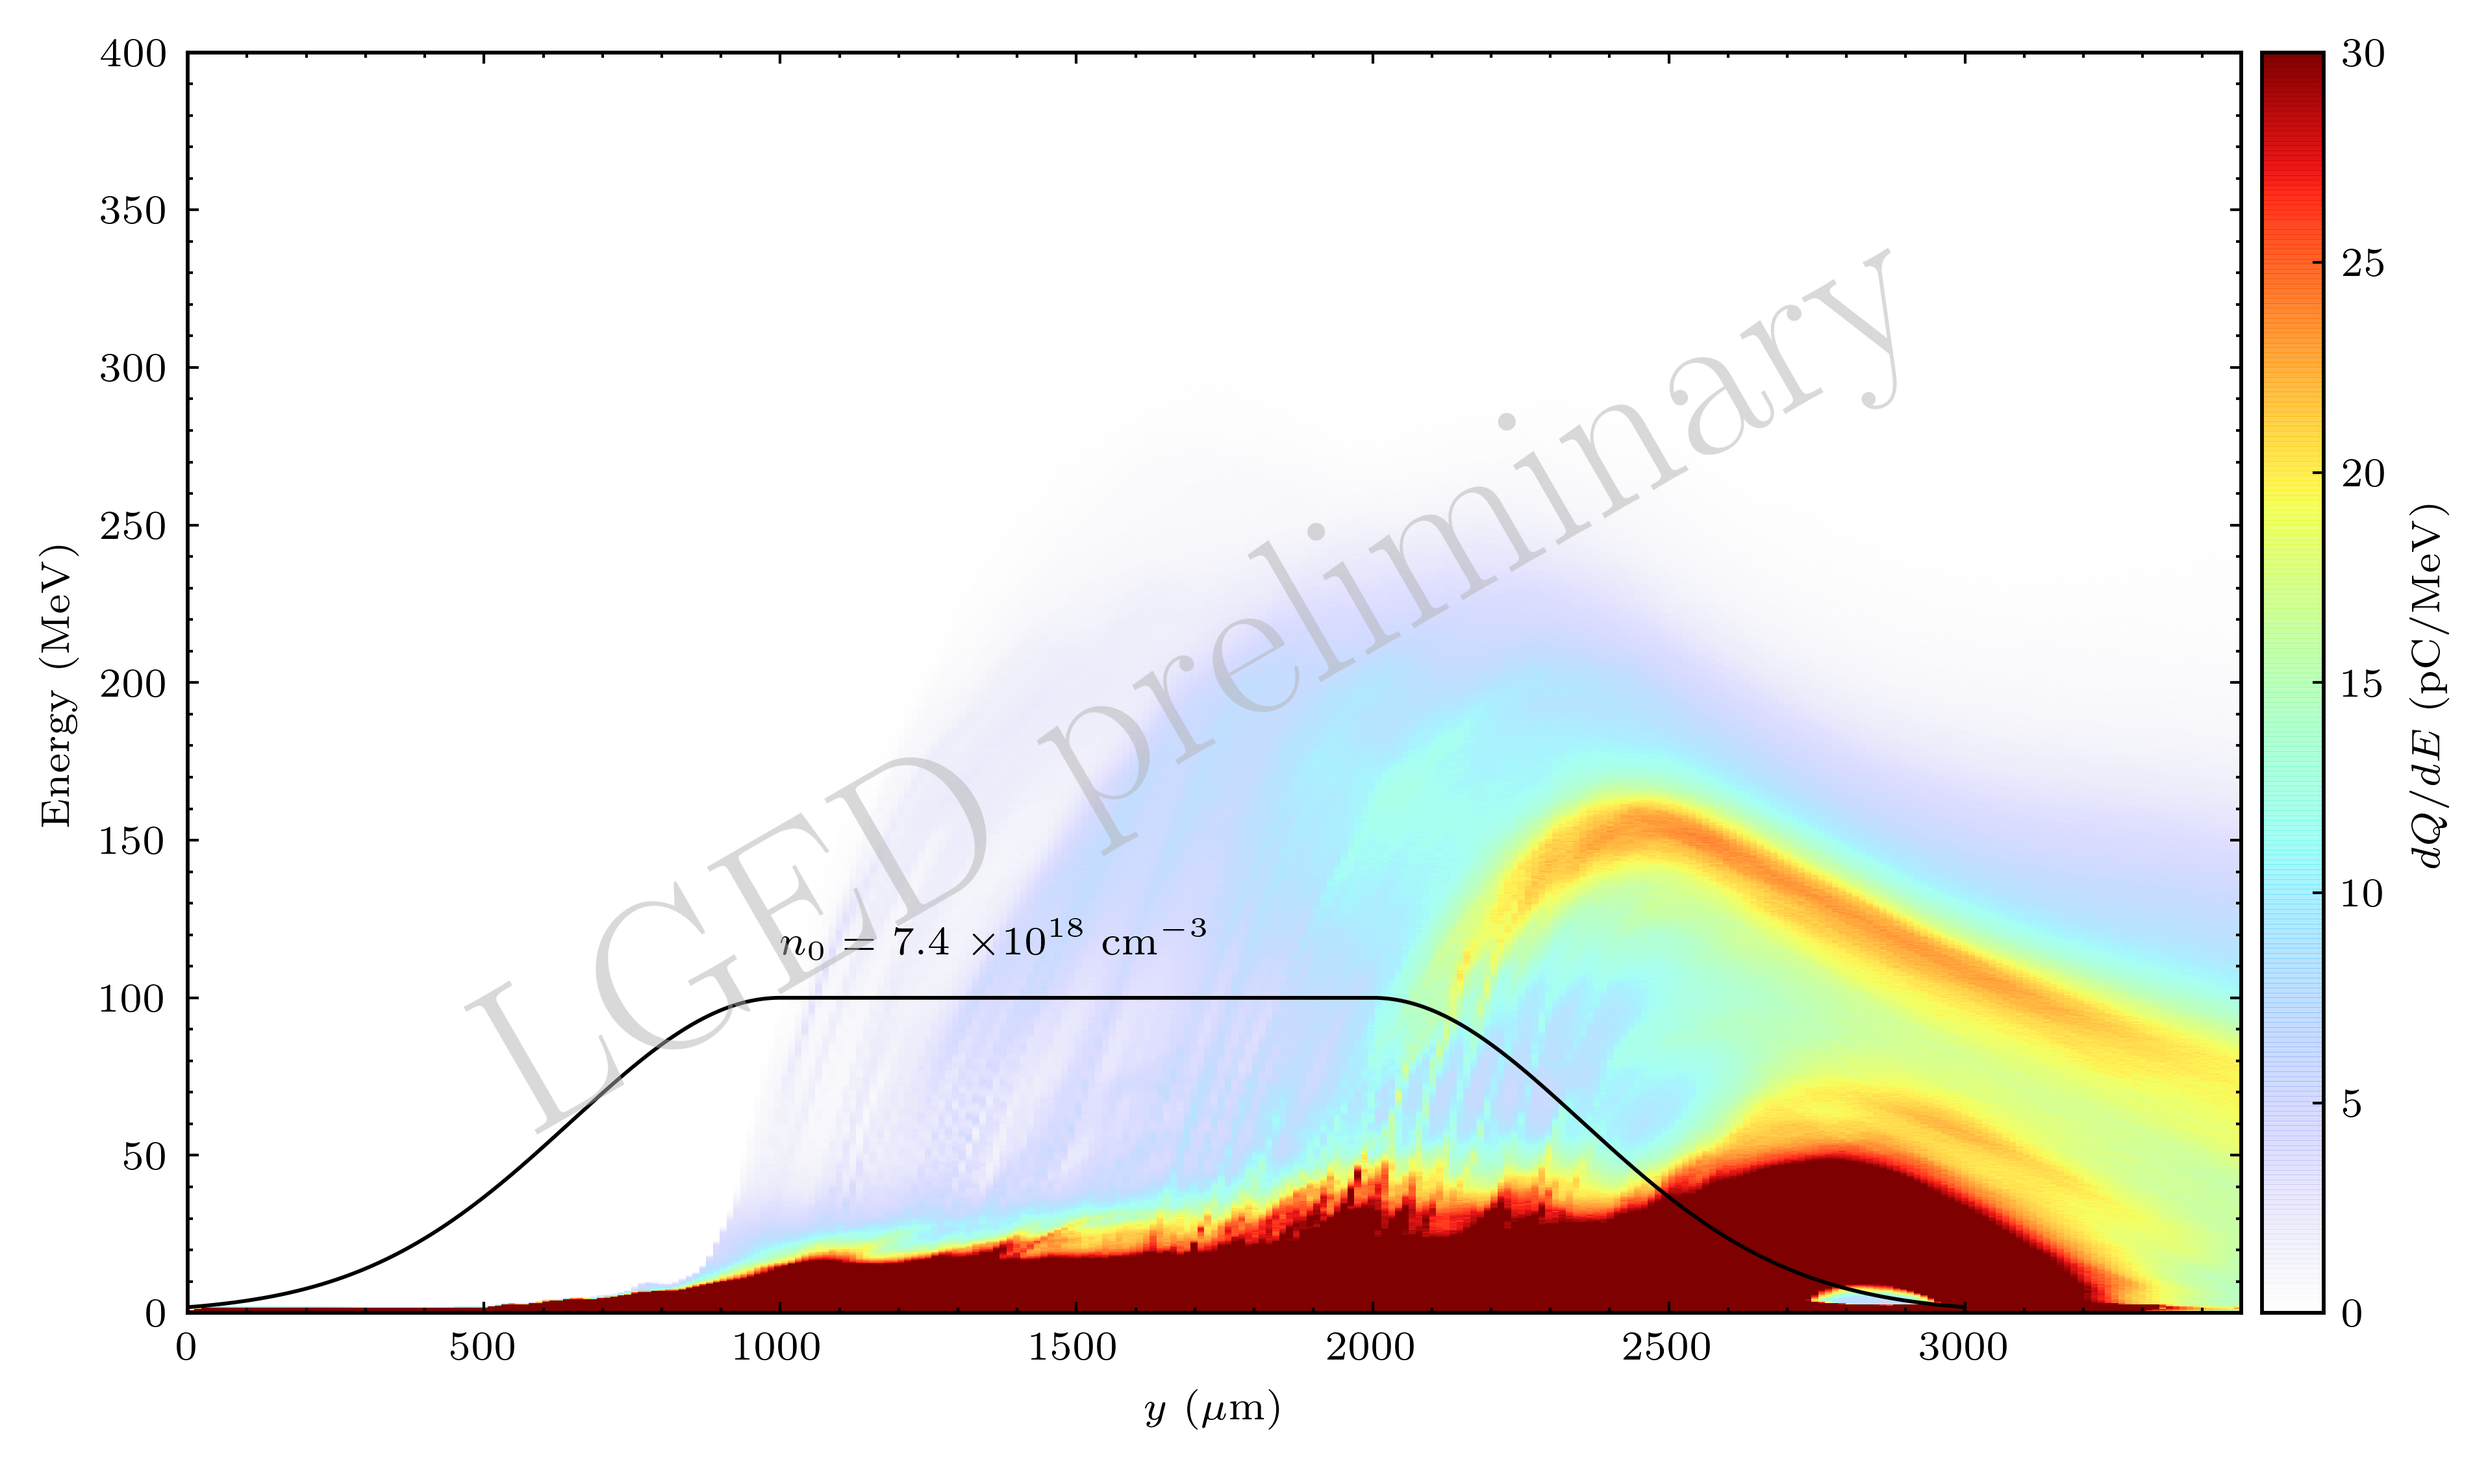
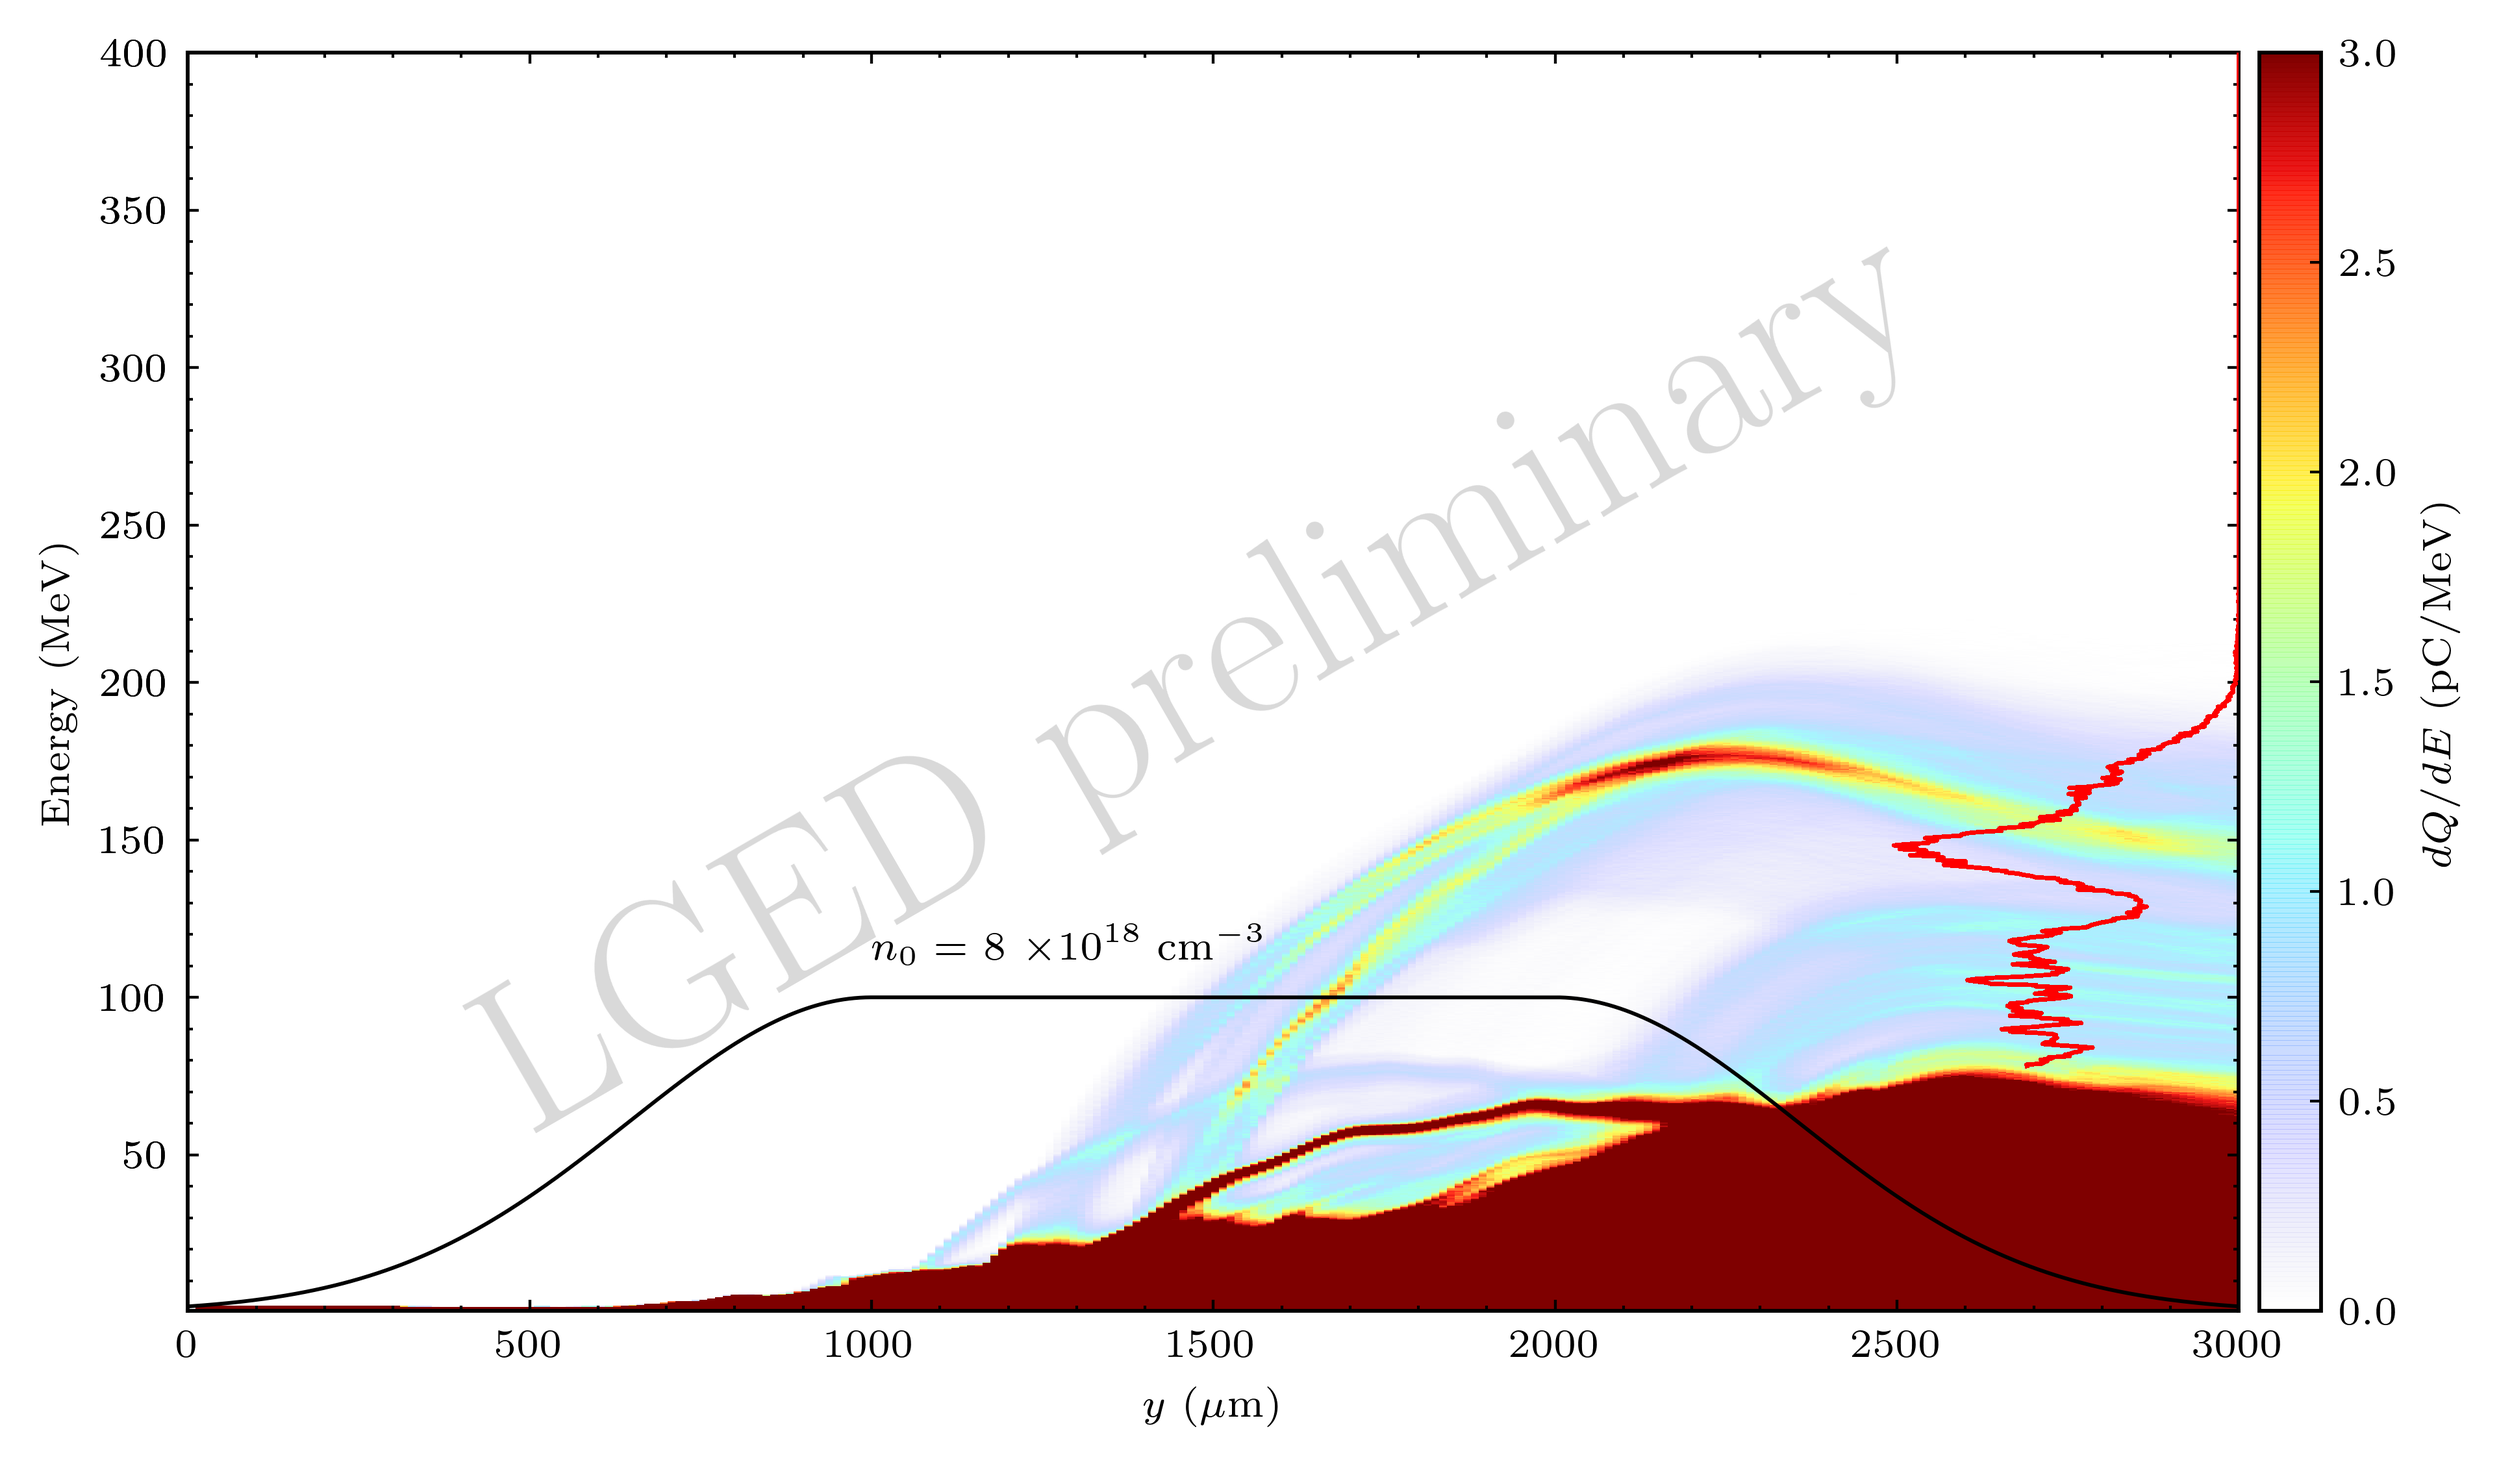
add final step histogram

diff --git a/histogram_evol.py b/histogram_evol.py
@@ -18,21 +18,23 @@ rcParams.update(params)
 import prepic_density as den
 
 species = 'e' 
-p = "/media/ong/WORKDIR2/betatron0013/"
+p = "/media/ong/WORKDIR2/betatron0012_02/"
 # Read histogram data
 eh_data = EnergyHistogramData(p)
 iterations = eh_data.get_iterations(species=species)
 dist, en, iteration, dt = eh_data._get_for_iteration(
     species=species, 
     iteration=0)
-div = en[1] - en[0] 
+
 n_points_x = iterations.shape[0]
 n_points_y = en.shape[0]
 
 start_x = iterations[0]*dt*3e8*1e6
 end_x = iterations[n_points_x-1]*dt*3e8*1e6
-start_y = en[0]/1000
+start_y = en[0]/1000 #keV to MeV
 end_y = en[n_points_y-1]/1000
+div = (en[1] - en[0])/1000
+
 x = np.linspace(start_x, end_x, n_points_x, endpoint=True)
 y = np.linspace(start_y, end_y, n_points_y, endpoint=True)
 array2D = np.zeros((n_points_x, n_points_y))
@@ -44,10 +46,10 @@ for i in range(0,n_points_x,1):
     dist, en, iteration, dt = eh_data._get_for_iteration(
             species=species, iteration=iteration)
     array2D[i,:] = dist[:] 
-div = en[1] - en[0]    
-array2D = array2D/div*1.6e-19*1e12*1000 # convert to pC/MeV
+    
+array2D = array2D/div*1.6e-19*1e12 # convert to pC/MeV
 
-ne = 7.4  # electron plasma density in 10^18 cm$^{-3}$
+ne = 8 # electron plasma density in 10^18 cm$^{-3}$
 gasPower = 2
 #  lengths in microns
 flat_top_dist = 1000  # plasma flat top distance
@@ -66,14 +68,16 @@ dens = den.dens_func(
         power=gasPower,
     )
 
-fig, ax = plt.subplots()
+fig = plt.figure()
+ax = fig.add_subplot(111, label="1")
+ax2 = fig.add_subplot(111, label="2", frame_on=False)
 img = ax.imshow(array2D.T,
                 origin='lower',
-                vmin=0,vmax=30,
+                vmin=0,vmax=3,
                 extent=extent,
                 aspect='auto',
                 cmap='jet_alpha',
-                interpolation='nearest')
+                interpolation='bilinear')
 cbaxes = inset_axes(ax,
                 width="3%",  
                 height="100%",  
@@ -93,13 +97,21 @@ ax.set_ylim(ymin=0)
 ax.set_ylabel(r'$\mathrm{Energy}~(\mathrm{MeV})$')
 ax.set_xlabel(r'$y~(\mathrm{\mu m})$')
 ax.minorticks_on()
+
+# add histogram at final iteration
+ax2.plot(array2D[n_points_x-1,200:]*300,Y[200:], color="red")
+ax2.set_xlim(xmin=all_x.min(),xmax=all_x.max())
+ax2.set_ylim(ymin=Y.min(),ymax=Y.max())
+ax2.invert_xaxis()
+ax2.set_xticklabels([])
+
 # add watermark
 ax.text(0.5, 0.5, 'LGED preliminary', transform=ax.transAxes,
     fontsize=40, color='0.7', alpha=0.5,
     ha='center', va='center', rotation='30')
 
 fig.savefig(
-    f"time_slice.png",
+    f"{p}/time_slice.png",
     dpi=600,
     transparent=False,
     bbox_inches="tight")
